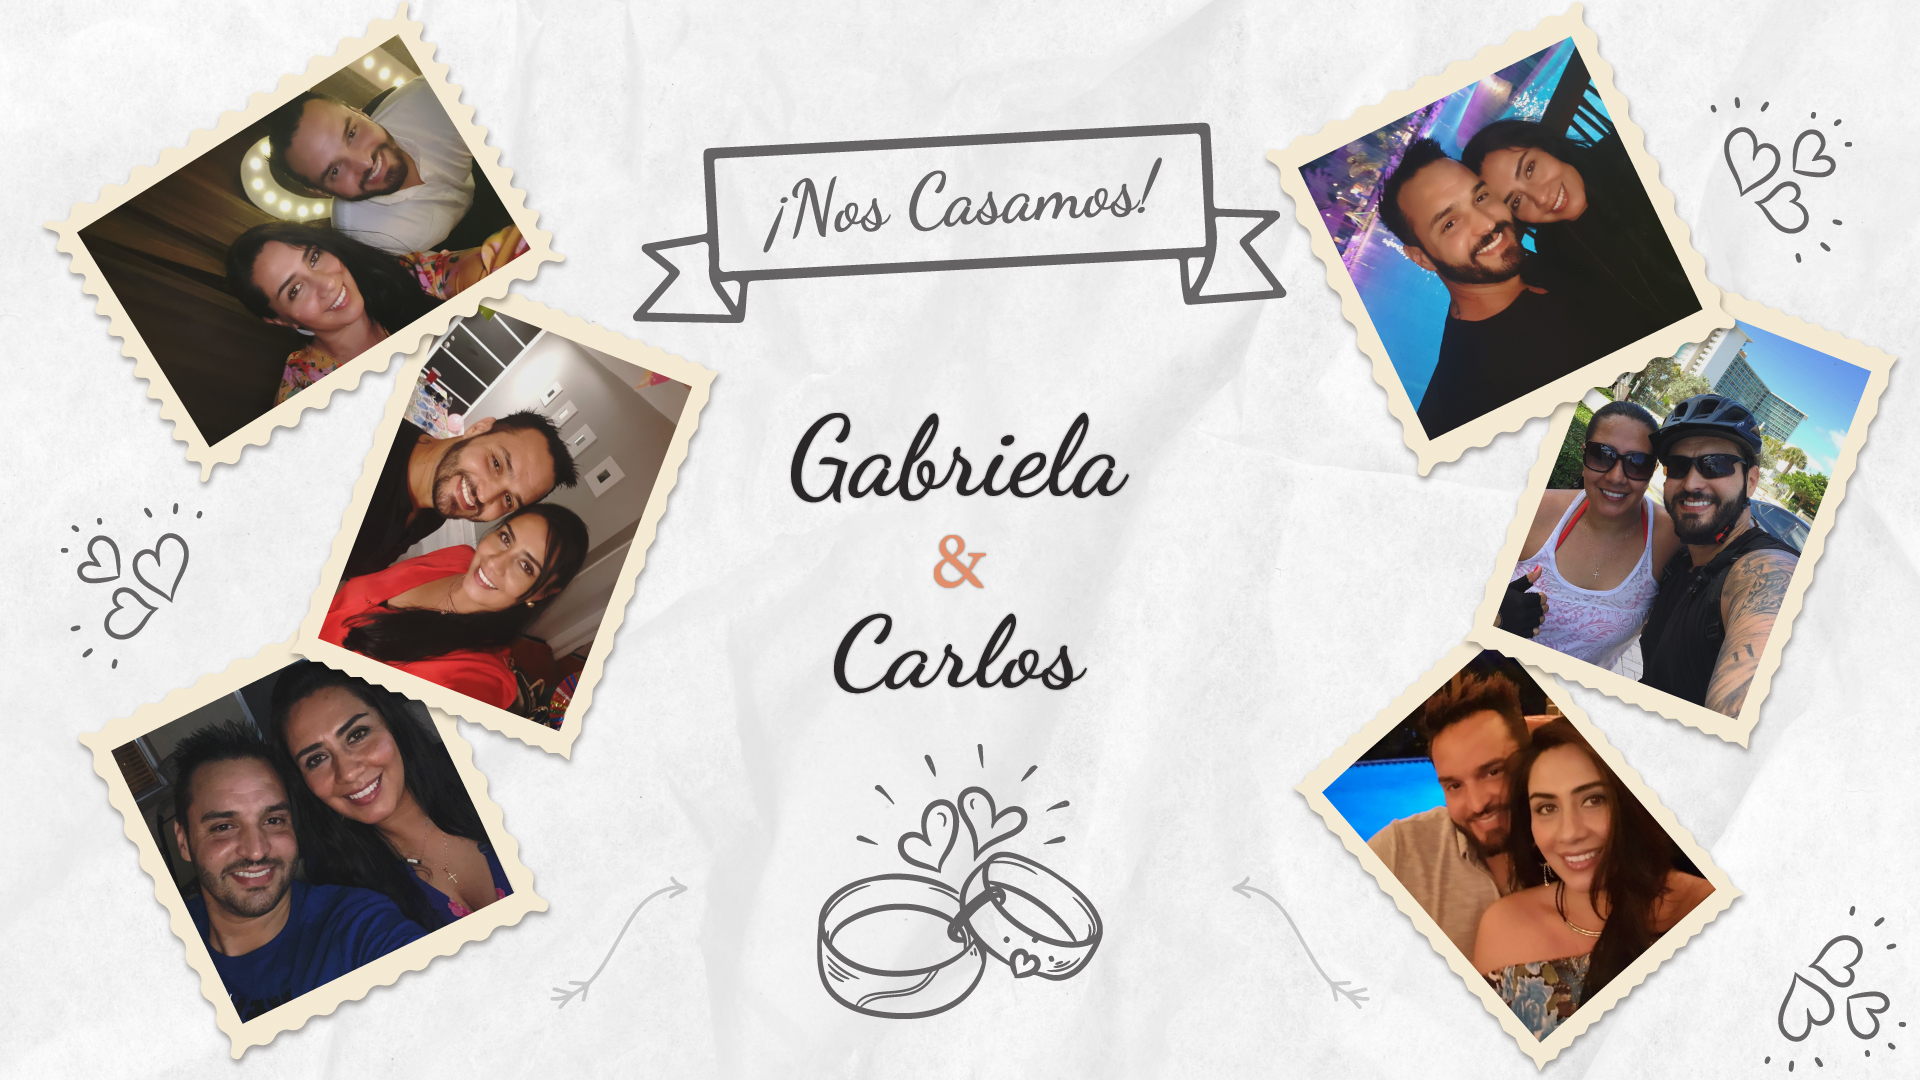
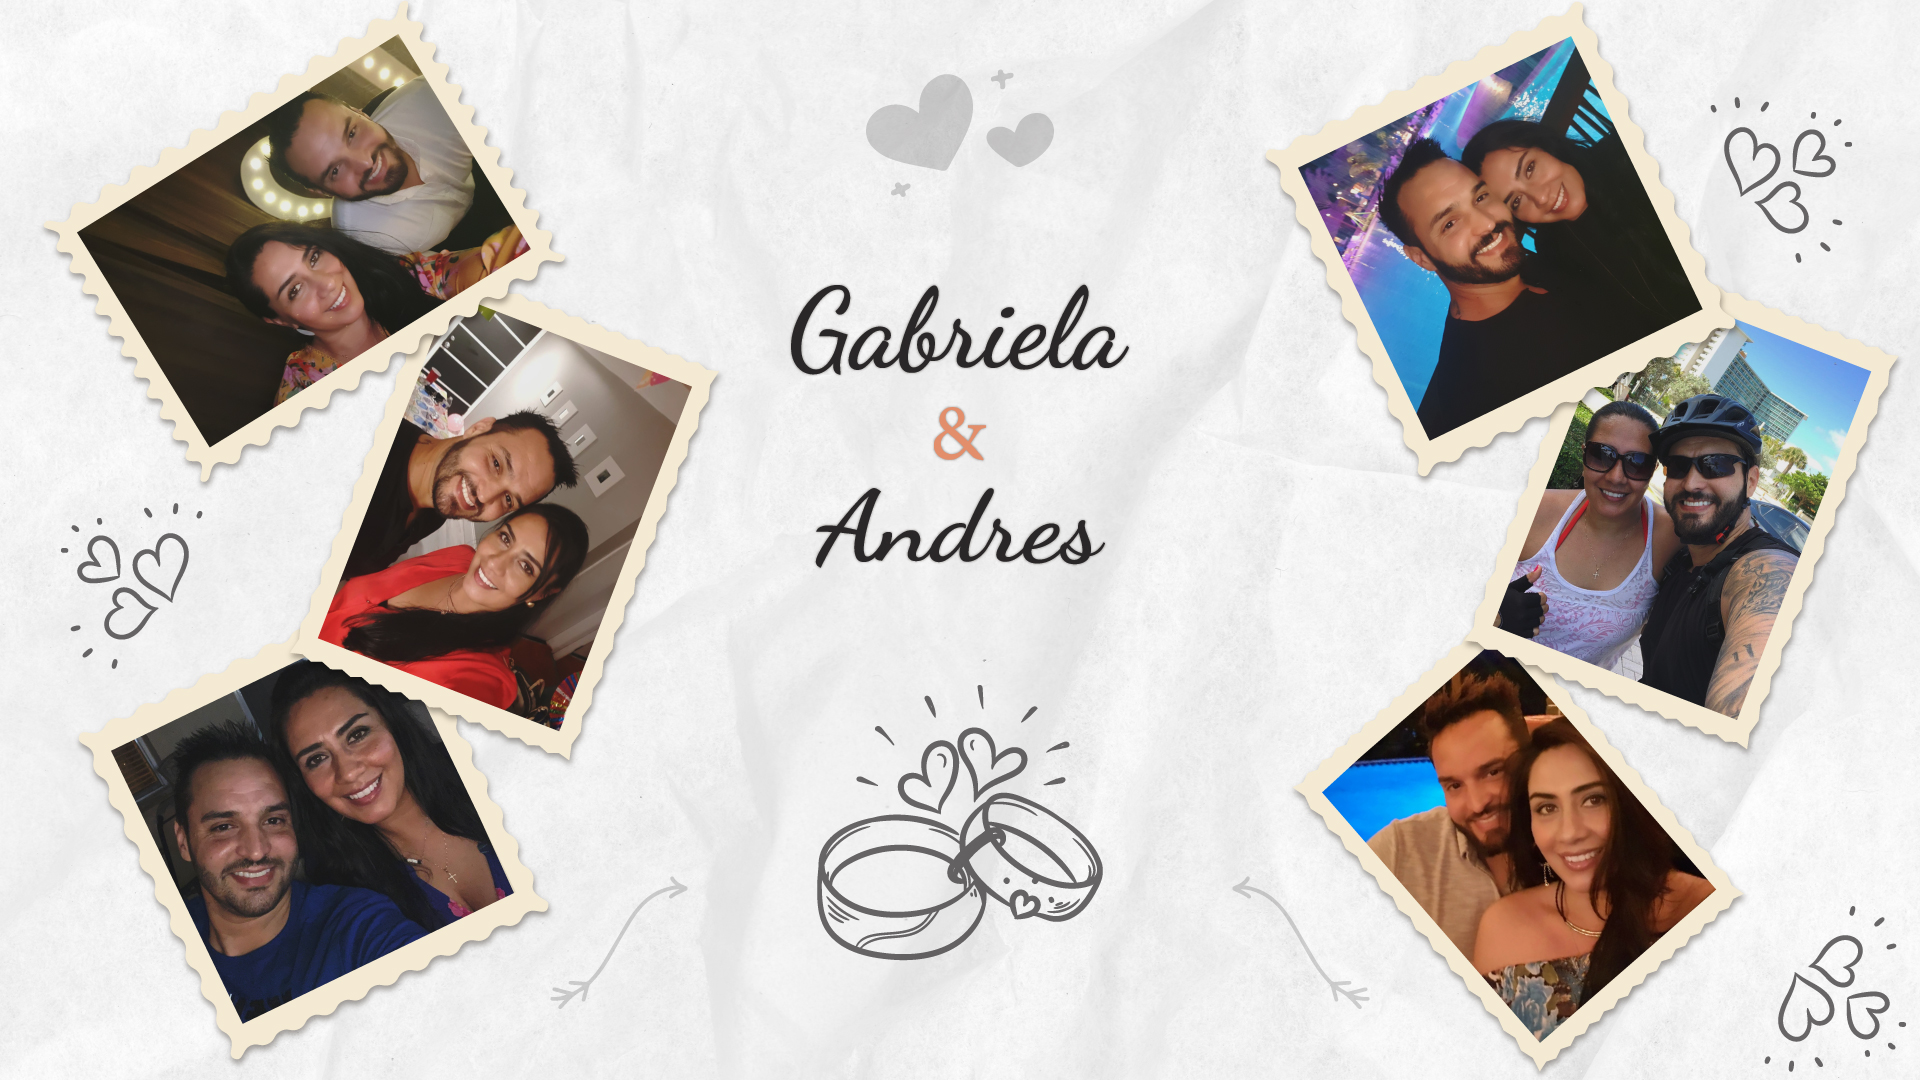
Correciones y cambios nuevos

Changed region(s): [[0.3125, 0.0611, 0.6875, 0.6417], [0.4062, 0.6722, 0.5938, 0.9472]]

diff --git a/index.html b/index.html
@@ -4,7 +4,7 @@
     <meta charset="UTF-8">
     <meta name="viewport" content="width=device-width, 
     initial-scale=1.0">
-    <meta name="description" content="En el camino de la vida, no es donde vayas; sino quien esta a tu lado, quien hace la diferencia,Gabriela Elena Arze Beyer, Carlos andres pelaez tejada,boda,2021">
+    <meta name="description" content="En el camino de la vida, no es donde vayas; sino quien esta a tu lado, quien hace la diferencia, Gabriela Elena Arze Beyer, Andres Pelaez Tejada, Boda, 2021">
     <!--meta http-equiv="refresh" content="5"-->
     <link href="dist/css/extra.css" rel="stylesheet">
     <!-- Bootstrap CSS -->
@@ -13,48 +13,95 @@
     <link rel="preconnect" href="https://fonts.gstatic.com">
     <link href="https://fonts.googleapis.com/css2?family=Dancing+Script:wght@400;500;600;700&family=Montserrat:ital,wght@0,100;0,200;0,300;0,400;0,500;0,600;0,700;0,800;0,900;1,100;1,200;1,300;1,400;1,500;1,600;1,700;1,800;1,900&display=swap" rel="stylesheet">
     <!-- sass --watch scss:dist/css--> 
-    
-    <title>Carlos & Gabriela</title>
+
+    <title>Andres & Gabriela</title>
 
 </head>
 <body>
-    <div class="d-none d-sm-block">
-	    <img src="img/diseño.jpg" class="img-fluid shadow-sm" alt="Presentacion de boda">
-	</div>
-    <div class="d-block d-sm-none">
-	    <img src="img/diseño2.jpg" class="img-fluid shadow-sm" alt="Presentacion de boda">
-	</div>
+    <div id="carouselExampleIndicators" class="carousel slide carousel-fade shadow" data-bs-ride="carousel" data-bs-touch="false">
+
+            <div class="carousel-inner">
+                <div class="carousel-item active" data-bs-interval="7000">
+                    <img src="img/1-min.jpg" class="d-block w-100" alt="Gabriela & Andres">
+                    <div class="carousel-caption d-none d-sm-block">
+                        <h5 class="textos_cursiva display-1">Gabriela & Andres</h5>
+                        <p class="texto_planos h2"><strong> ! NOS CASAMOS ! </strong></p>
+                    </div>
+                    <div class="carousel-caption d-block d-sm-none">
+                        <h5 class="textos_cursiva display-4">Gabriela & Andres</h5>
+                        <p class="texto_planos h6"><strong> ! NOS CASAMOS ! </strong></p>
+                    </div>
+                </div>
+                
+                <div class="carousel-item" data-bs-interval="14000">
+                    <img src="img//2-min.jpg" class="d-block w-100" alt="Gabriela & Andres">
+                    <div class="carousel-caption d-none d-sm-block">
+                        <h5 class="textos_cursiva display-1">Gabriela & Andres</h5>
+                        <p class="texto_planos h2"><strong> ! NOS CASAMOS ! </strong></p>
+                    </div>
+                    <div class="carousel-caption d-block d-sm-none">
+                        <h5 class="textos_cursiva display-4">Gabriela & Andres</h5>
+                        <p class="texto_planos h6"><strong> ! NOS CASAMOS ! </strong></p>
+                    </div>
+                </div>
+            </div>
+
+            <button class="carousel-control-prev" type="button" data-bs-target="#carouselExampleIndicators" data-bs-slide="prev">
+            <span class="carousel-control-prev-icon" aria-hidden="true"></span>
+            <span class="visually-hidden">Previous</span>
+            </button>
+            <button class="carousel-control-next" type="button" data-bs-target="#carouselExampleIndicators" data-bs-slide="next">
+            <span class="carousel-control-next-icon" aria-hidden="true"></span>
+            <span class="visually-hidden">Next</span>
+            </button>
+    </div>
+
+
     <div class="container-fluid text-center p-4">
         <p class="textos_cursiva display-3"> Estás invitado!</p>
-        <p class="h6 texto_planos"> " En el camino de la vida, no es donde vayas; sino quien esta a tu lado, quien hace la diferencia "</p>
+        <p class="h5 texto_planos"> " En el camino de la vida, no es donde vayas; sino quien esta a tu lado, quien hace la diferencia "</p>
     </div>
+
     <div class="container-fluid text-center p-4">
 	    <img src="img/icono_corazon.png" class="img-fluid" alt="iconos">
 	</div>
+
     <div class="container-fluid text-center shadow-sm p-4">
         <p class="textos_cursiva p-2 display-3">¿DÓNDE?</p>
-        <p class="p-3 h6 texto_planos">
-            Lugar de recepción: <br>
-            1649 nw 53rd Ct.<br>
-            Pompano beach fl. 33064<br>
+        <img src="img/icono_palmera.png" class="img-fluid" alt="iconos">
+        <p class="p-3 h5 texto_planos">
+            Lugar de recepción: <br><br>
+            16<sup>th</sup> Street - North Ocean Park<br>
+            Hora: 4:30PM<br>
         </p>
-        <a class="btn btn-lg btn-primary" href="https://goo.gl/maps/JxcJfKHnUXjdFqWr8" role="button" target="_blank">COMO LLEGAR</a>
+        <a class="btn btn-lg btn-primary" href="https://goo.gl/maps/4h8LhtHz8TBvH2S1A" role="button" target="_blank">COMO LLEGAR</a>
     </div>
+
     <div class="container-fluid text-center p-4">
             <p class="textos_cursiva p-2 display-3">DRESSCODE</p>
-            <img src="img/icono_palmera.png" class="img-fluid" alt="iconos">
-            <p class="h6 texto_planos">Formal Playa / Guayabera</p>
+            <img src="img/icono_c.png" class="img-fluid " alt="iconos">
+            <p class="h5 texto_planos p-2">Informal / Casual</p>
     </div>
+
     <div class="container-fluid text-center p-4 shadow-sm">
-        <p class="display-5 texto_planos">CONFIRMAR ASISTENCIA</p>
-        <a class="btn btn-lg btn-primary" href="https://goo.gl/maps/JxcJfKHnUXjdFqWr8" role="button" target="_blank">CONFIRMAR ASISTENCIA</a>
-    </div>
-    <div class="container-fluid text-center p-4">
         <img src="img/icono_sobres.png" class="img-fluid" alt="iconos">
     </div>
-    <div class="container-fluid text-center p-4 shadow-sm">
-        <p class="display-5 textos_cursiva">Te esperamos</p>
+
+    <div class="container-fluid text-center p-4 shadow ">
+        <p class="display-4 textos_cursiva p-2">Te esperamos</p>
+        <p class="textos_cursiva p-2 display-4">CONFIRMAR ASISTENCIA</p>
+        <a class="btn btn-lg btn-primary" href="https://goo.gl/maps/JxcJfKHnUXjdFqWr8" role="button" target="_blank">CONFIRMAR ASISTENCIA</a>
     </div>
+    <div>
+        <div class="d-none d-sm-block">
+            <img src="img/diseño.jpg" class="img-fluid shadow-sm" alt="Presentacion de boda">
+        </div>
+        <div class="d-block d-sm-none">
+            <img src="img/diseño2.jpg" class="img-fluid shadow-sm" alt="Presentacion de boda">
+        </div>
+    </div>
+
+
 
 <!-- Optional JavaScript; choose one of the two! -->
 
